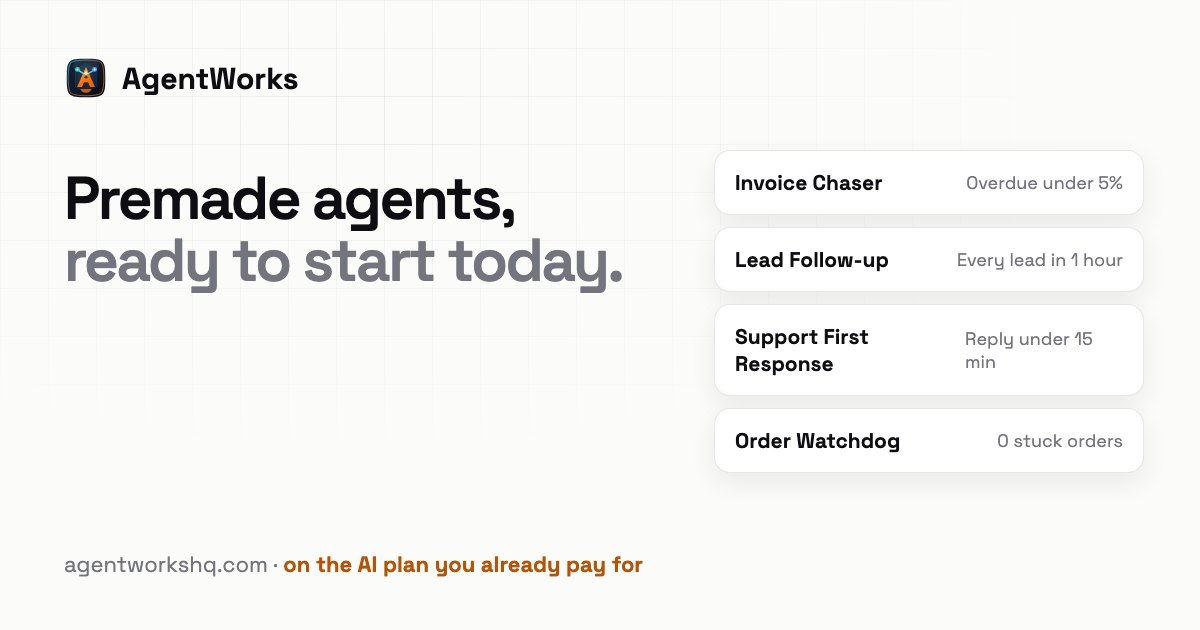
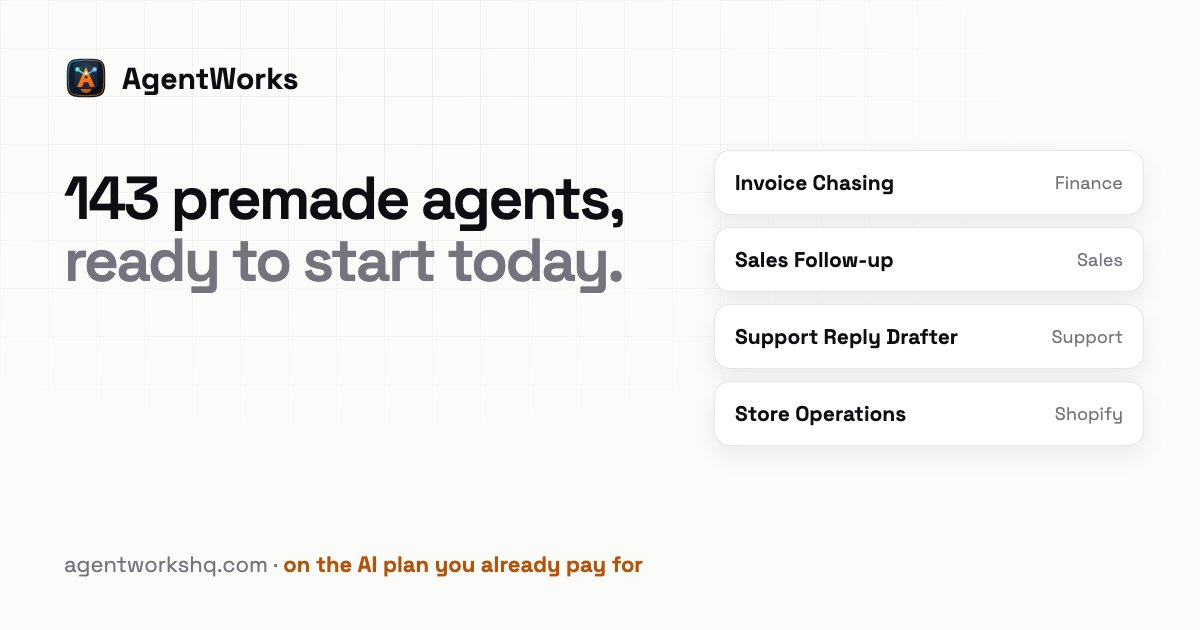
Site-wide refresh for the new features
- Product: 'More ways to use it' (shared expert agents, shared AI workspace, Relays soon, MCP gateway soon)
- Pricing table: real premade-agent count, Crew calls over MCP/CLI, shared AI plans with usage, Relays and MCP gateway as coming soon
- Enterprise: use cases grouped into Engineering goals / AI platform for teams; hero mentions shared agents and plans
- Footer: Relays (soon); docs footer re-rendered
- Social images for /agents/ and /enterprise/ regenerated with real agents and counts

diff --git a/pricing/index.html b/pricing/index.html
@@ -336,14 +336,16 @@
         <tr><th scope="row">Crew teammates</th><td>Unlimited</td><td>Unlimited</td><td>Unlimited</td></tr>
         <tr><th scope="row">Goals with measured targets</th><td><span class="yes" aria-label="Included">✓</span></td><td><span class="yes" aria-label="Included">✓</span></td><td><span class="yes" aria-label="Included">✓</span></td></tr>
         <tr><th scope="row">Auto-improvement toward your goals</th><td><span class="yes" aria-label="Included">✓</span></td><td><span class="yes" aria-label="Included">✓</span></td><td><span class="yes" aria-label="Included">✓</span></td></tr>
-        <tr><th scope="row">Premade business agents</th><td>Rolling out</td><td>Rolling out</td><td>Rolling out</td></tr>
+        <tr><th scope="row">Premade Crew agents and Goal playbooks</th><td>143</td><td>143</td><td>143</td></tr>
         <tr><th scope="row">Engineering playbooks</th><td><span class="yes" aria-label="Included">✓</span></td><td><span class="yes" aria-label="Included">✓</span></td><td><span class="yes" aria-label="Included">✓</span></td></tr>
+        <tr><th scope="row">Relays: fixed agent chains behind an API</th><td>Coming soon</td><td>Coming soon</td><td>Coming soon</td></tr>
         <tr><th scope="row">Custom playbooks built with you</th><td><span class="no" aria-label="Not included">—</span></td><td><span class="no" aria-label="Not included">—</span></td><td><span class="yes" aria-label="Included">✓</span></td></tr>
         <tr class="grp"><th scope="rowgroup" colspan="4">Channels & tools</th></tr>
         <tr><th scope="row">Slack and WhatsApp</th><td><span class="yes" aria-label="Included">✓</span></td><td><span class="yes" aria-label="Included">✓</span></td><td><span class="yes" aria-label="Included">✓</span></td></tr>
         <tr><th scope="row">Gmail updates and granted mailbox work</th><td><span class="yes" aria-label="Included">✓</span></td><td><span class="yes" aria-label="Included">✓</span></td><td><span class="yes" aria-label="Included">✓</span></td></tr>
         <tr><th scope="row">Browser per teammate</th><td>Self-run</td><td>Hosted</td><td>Your cloud</td></tr>
         <tr><th scope="row">MCP servers and API tools</th><td><span class="yes" aria-label="Included">✓</span></td><td><span class="yes" aria-label="Included">✓</span></td><td><span class="yes" aria-label="Included">✓</span></td></tr>
+        <tr><th scope="row">Call Crew agents from MCP clients and the CLI</th><td><span class="yes" aria-label="Included">✓</span></td><td><span class="yes" aria-label="Included">✓</span></td><td><span class="yes" aria-label="Included">✓</span></td></tr>
         <tr><th scope="row">Custom integrations</th><td><span class="no" aria-label="Not included">—</span></td><td><span class="no" aria-label="Not included">—</span></td><td><span class="yes" aria-label="Included">✓</span></td></tr>
         <tr class="grp"><th scope="rowgroup" colspan="4">Control & security</th></tr>
         <tr><th scope="row">Approvals and autonomy limits</th><td><span class="yes" aria-label="Included">✓</span></td><td><span class="yes" aria-label="Included">✓</span></td><td><span class="yes" aria-label="Included">✓</span></td></tr>
@@ -351,6 +353,8 @@
         <tr><th scope="row">OS-enforced sandbox</th><td><span class="yes" aria-label="Included">✓</span></td><td><span class="yes" aria-label="Included">✓</span></td><td><span class="yes" aria-label="Included">✓</span></td></tr>
         <tr><th scope="row">Run logs and cost per goal</th><td><span class="yes" aria-label="Included">✓</span></td><td><span class="yes" aria-label="Included">✓</span></td><td><span class="yes" aria-label="Included">✓</span></td></tr>
         <tr><th scope="row">Roles and per-goal sharing</th><td><span class="yes" aria-label="Included">✓</span></td><td><span class="yes" aria-label="Included">✓</span></td><td><span class="yes" aria-label="Included">✓</span></td></tr>
+        <tr><th scope="row">Shared AI plans, usage by person, Crew and model</th><td><span class="yes" aria-label="Included">✓</span></td><td><span class="yes" aria-label="Included">✓</span></td><td><span class="yes" aria-label="Included">✓</span></td></tr>
+        <tr><th scope="row">MCP gateway: governed tool access and PII controls</th><td><span class="no" aria-label="Not included">—</span></td><td><span class="no" aria-label="Not included">—</span></td><td>Coming soon</td></tr>
         <tr><th scope="row">SSO (SAML / OIDC) and SCIM</th><td><span class="no" aria-label="Not included">—</span></td><td><span class="no" aria-label="Not included">—</span></td><td><span class="yes" aria-label="Included">✓</span></td></tr>
         <tr><th scope="row">Audit log export</th><td><span class="no" aria-label="Not included">—</span></td><td><span class="no" aria-label="Not included">—</span></td><td><span class="yes" aria-label="Included">✓</span></td></tr>
         <tr class="grp"><th scope="rowgroup" colspan="4">Deployment & support</th></tr>
@@ -408,6 +412,7 @@
             <li><a href="/product/#improve">Auto-improve</a></li>
             <li><a href="/product/#crew">Crew</a></li>
             <li><a href="/agents/">Premade agents</a></li>
+            <li><a href="/relays/">Relays (soon)</a></li>
           </ul>
         </div>
         <div>

diff --git a/enterprise/index.html b/enterprise/index.html
@@ -183,7 +183,7 @@
       <div class="wrap">
         <p class="kicker">AgentWorks Enterprise</p>
         <h1>Agentic engineering operations, in your own cloud.</h1>
-        <p class="lede">Your engineers ship faster with AI. Now QA, CI, incidents, security and cloud cost are the bottleneck. AgentWorks puts agents on those goals, with approvals, audit trails and your own models.</p>
+        <p class="lede">Your engineers ship faster with AI. Now QA, CI, incidents, security and cloud cost are the bottleneck. AgentWorks puts agents on those goals, with approvals, audit trails and your own models, and gives every team shared expert agents and shared AI plans on one governed server.</p>
         <div class="hero-actions">
           <a class="btn btn-primary" href="https://calendly.com/manish-tryagentworks/intro" target="_blank" rel="noreferrer">Book a call</a>
           <a class="btn btn-ghost" href="https://github.com/manishiitg/coding-agent-loop" target="_blank" rel="noreferrer">Read the source</a>
@@ -233,10 +233,10 @@
       <div class="wrap">
         <div class="section-head reveal">
           <p class="kicker">Use cases</p>
-          <h2>Start with the goal that hurts most.</h2>
-          <p class="lede">Each use case comes with its playbooks, an example goal and a four-week pilot plan.</p>
+          <h2>Start with the goal that hurts most. <span class="dim">Or the platform your teams need.</span></h2>
+          <p class="lede">Engineering goals come with their playbooks, an example goal and a four-week pilot. The platform use cases give every team shared agents, shared AI plans and governed tools.</p>
         </div>
-        <div class="uc-grid"><a class="uc-link" href="/enterprise/release-quality/"><b>Release quality</b><span>AI QA that writes, runs and repairs your browser tests.</span></a><a class="uc-link" href="/enterprise/incident-response/"><b>Incident response</b><span>First RCA before the war room fills up.</span></a><a class="uc-link" href="/enterprise/security-testing/"><b>Security testing</b><span>Authorized AppSec and permission testing, driven to closure.</span></a><a class="uc-link" href="/enterprise/cloud-cost/"><b>Cloud cost</b><span>Find cost anomalies and prove the savings.</span></a><a class="uc-link" href="/enterprise/growth-analytics/"><b>Growth analytics</b><span>An AI growth analyst for funnels, retention and search.</span></a><a class="uc-link" href="/enterprise/shared-ai-workspace/"><b>Shared AI workspace</b><span>Your team's Claude, ChatGPT and Cursor plans, shared and measured.</span></a><a class="uc-link" href="/enterprise/expert-agents/"><b>Shared expert agents</b><span>Build a DevOps or product expert once; every engineer asks it from their own CLI.</span></a><a class="uc-link" href="/enterprise/mcp-gateway/"><b>MCP gateway <span class="tag tag-soon">Soon</span></b><span>One governed door to every MCP tool your company uses.</span></a></div>
+        <p class="tpl-kind">Engineering goals</p><div class="uc-grid"><a class="uc-link" href="/enterprise/release-quality/"><b>Release quality</b><span>AI QA that writes, runs and repairs your browser tests.</span></a><a class="uc-link" href="/enterprise/incident-response/"><b>Incident response</b><span>First RCA before the war room fills up.</span></a><a class="uc-link" href="/enterprise/security-testing/"><b>Security testing</b><span>Authorized AppSec and permission testing, driven to closure.</span></a><a class="uc-link" href="/enterprise/cloud-cost/"><b>Cloud cost</b><span>Find cost anomalies and prove the savings.</span></a><a class="uc-link" href="/enterprise/growth-analytics/"><b>Growth analytics</b><span>An AI growth analyst for funnels, retention and search.</span></a></div><p class="tpl-kind">AI platform for teams</p><div class="uc-grid"><a class="uc-link" href="/enterprise/shared-ai-workspace/"><b>Shared AI workspace</b><span>Your team's Claude, ChatGPT and Cursor plans, shared and measured.</span></a><a class="uc-link" href="/enterprise/expert-agents/"><b>Shared expert agents</b><span>Build a DevOps or product expert once; every engineer asks it from their own CLI.</span></a><a class="uc-link" href="/enterprise/mcp-gateway/"><b>MCP gateway <span class="tag tag-soon">Soon</span></b><span>One governed door to every MCP tool your company uses.</span></a></div>
       </div>
     </section>
 
@@ -348,6 +348,7 @@
             <li><a href="/product/#improve">Auto-improve</a></li>
             <li><a href="/product/#crew">Crew</a></li>
             <li><a href="/agents/">Premade agents</a></li>
+            <li><a href="/relays/">Relays (soon)</a></li>
           </ul>
         </div>
         <div>

diff --git a/product/index.html b/product/index.html
@@ -461,6 +461,22 @@
       </div>
     </section>
 
+    <section class="section" id="more">
+      <div class="wrap">
+        <div class="section-head reveal">
+          <p class="kicker">More ways to use it</p>
+          <h2>Beyond one team's goals. <span class="dim">Agents for the whole company.</span></h2>
+          <p class="lede">The same engine lets you share expert agents, pool your AI plans, and run fixed agent chains from any system.</p>
+        </div>
+        <div class="uc-grid">
+          <a class="uc-link" href="/enterprise/expert-agents/"><b>Shared expert agents</b><span>Teams build a DevOps, database or product expert as a Crew and share it. Engineers ask it from Claude Code, Codex, Cursor or ChatGPT through MCP or the CLI.</span></a>
+          <a class="uc-link" href="/enterprise/shared-ai-workspace/"><b>Shared AI workspace</b><span>Put the team's Claude, ChatGPT and Cursor plans on one server as shared or private accounts, and see usage and cost by person, Crew and model.</span></a>
+          <a class="uc-link" href="/relays/"><b>Relays <span class="tag tag-soon">Soon</span></b><span>Chain agent steps, conditions and scripts into one fixed sequence, and call it from your website, CRM or any system through an API or webhook.</span></a>
+          <a class="uc-link" href="/enterprise/mcp-gateway/"><b>MCP gateway <span class="tag tag-soon">Soon</span></b><span>One governed door to every MCP tool: grants per group and tool, tool approval, PII masking and a full audit log.</span></a>
+        </div>
+      </div>
+    </section>
+
     <section class="section" id="stack">
       <div class="wrap">
         <div class="section-head reveal">
@@ -521,6 +537,7 @@
             <li><a href="/product/#improve">Auto-improve</a></li>
             <li><a href="/product/#crew">Crew</a></li>
             <li><a href="/agents/">Premade agents</a></li>
+            <li><a href="/relays/">Relays (soon)</a></li>
           </ul>
         </div>
         <div>

diff --git a/docs/index.html b/docs/index.html
@@ -30,7 +30,7 @@
 <link rel="icon" type="image/png" sizes="16x16" href="/favicon-16.png?v=2">
 <link rel="manifest" href="/site.webmanifest">
 <link rel="stylesheet" href="/assets/fonts/fonts.css?v=agentworks2">
-<link rel="stylesheet" href="/launch.css?v=launch29">
+<link rel="stylesheet" href="/launch.css?v=launch34">
 <link rel="stylesheet" href="/site-header.css?v=3">
 <link rel="stylesheet" href="/docs.css?v=1">
 <script src="/docs-redirect.js?v=1"></script>
@@ -163,6 +163,7 @@
             <li><a href="/product/#improve">Auto-improve</a></li>
             <li><a href="/product/#crew">Crew</a></li>
             <li><a href="/agents/">Premade agents</a></li>
+            <li><a href="/relays/">Relays (soon)</a></li>
           </ul>
         </div>
         <div>
@@ -197,7 +198,7 @@
       </div>
     </div>
   </footer>
-  <script src="/launch.js?v=launch29"></script>
+  <script src="/launch.js?v=launch34"></script>
   <script src="/analytics.js?v=1"></script>
 </body>
 </html>

diff --git a/scripts/site-footer.fragment.html b/scripts/site-footer.fragment.html
@@ -13,6 +13,7 @@
             <li><a href="/product/#improve">Auto-improve</a></li>
             <li><a href="/product/#crew">Crew</a></li>
             <li><a href="/agents/">Premade agents</a></li>
+            <li><a href="/relays/">Relays (soon)</a></li>
           </ul>
         </div>
         <div>
@@ -47,7 +48,7 @@
       </div>
     </div>
   </footer>
-  <script src="/launch.js?v=launch29"></script>
+  <script src="/launch.js?v=launch34"></script>
   <script src="/analytics.js?v=1"></script>
 </body>
 </html>

diff --git a/agents/index.html b/agents/index.html
@@ -2140,6 +2140,7 @@
             <li><a href="/product/#improve">Auto-improve</a></li>
             <li><a href="/product/#crew">Crew</a></li>
             <li><a href="/agents/">Premade agents</a></li>
+            <li><a href="/relays/">Relays (soon)</a></li>
           </ul>
         </div>
         <div>

diff --git a/404.html b/404.html
@@ -139,6 +139,7 @@
             <li><a href="/product/#improve">Auto-improve</a></li>
             <li><a href="/product/#crew">Crew</a></li>
             <li><a href="/agents/">Premade agents</a></li>
+            <li><a href="/relays/">Relays (soon)</a></li>
           </ul>
         </div>
         <div>

diff --git a/enterprise/cloud-cost/index.html b/enterprise/cloud-cost/index.html
@@ -273,6 +273,7 @@
             <li><a href="/product/#improve">Auto-improve</a></li>
             <li><a href="/product/#crew">Crew</a></li>
             <li><a href="/agents/">Premade agents</a></li>
+            <li><a href="/relays/">Relays (soon)</a></li>
           </ul>
         </div>
         <div>

diff --git a/enterprise/expert-agents/index.html b/enterprise/expert-agents/index.html
@@ -282,6 +282,7 @@
             <li><a href="/product/#improve">Auto-improve</a></li>
             <li><a href="/product/#crew">Crew</a></li>
             <li><a href="/agents/">Premade agents</a></li>
+            <li><a href="/relays/">Relays (soon)</a></li>
           </ul>
         </div>
         <div>

diff --git a/enterprise/growth-analytics/index.html b/enterprise/growth-analytics/index.html
@@ -273,6 +273,7 @@
             <li><a href="/product/#improve">Auto-improve</a></li>
             <li><a href="/product/#crew">Crew</a></li>
             <li><a href="/agents/">Premade agents</a></li>
+            <li><a href="/relays/">Relays (soon)</a></li>
           </ul>
         </div>
         <div>

diff --git a/enterprise/incident-response/index.html b/enterprise/incident-response/index.html
@@ -273,6 +273,7 @@
             <li><a href="/product/#improve">Auto-improve</a></li>
             <li><a href="/product/#crew">Crew</a></li>
             <li><a href="/agents/">Premade agents</a></li>
+            <li><a href="/relays/">Relays (soon)</a></li>
           </ul>
         </div>
         <div>

diff --git a/enterprise/mcp-gateway/index.html b/enterprise/mcp-gateway/index.html
@@ -282,6 +282,7 @@
             <li><a href="/product/#improve">Auto-improve</a></li>
             <li><a href="/product/#crew">Crew</a></li>
             <li><a href="/agents/">Premade agents</a></li>
+            <li><a href="/relays/">Relays (soon)</a></li>
           </ul>
         </div>
         <div>
